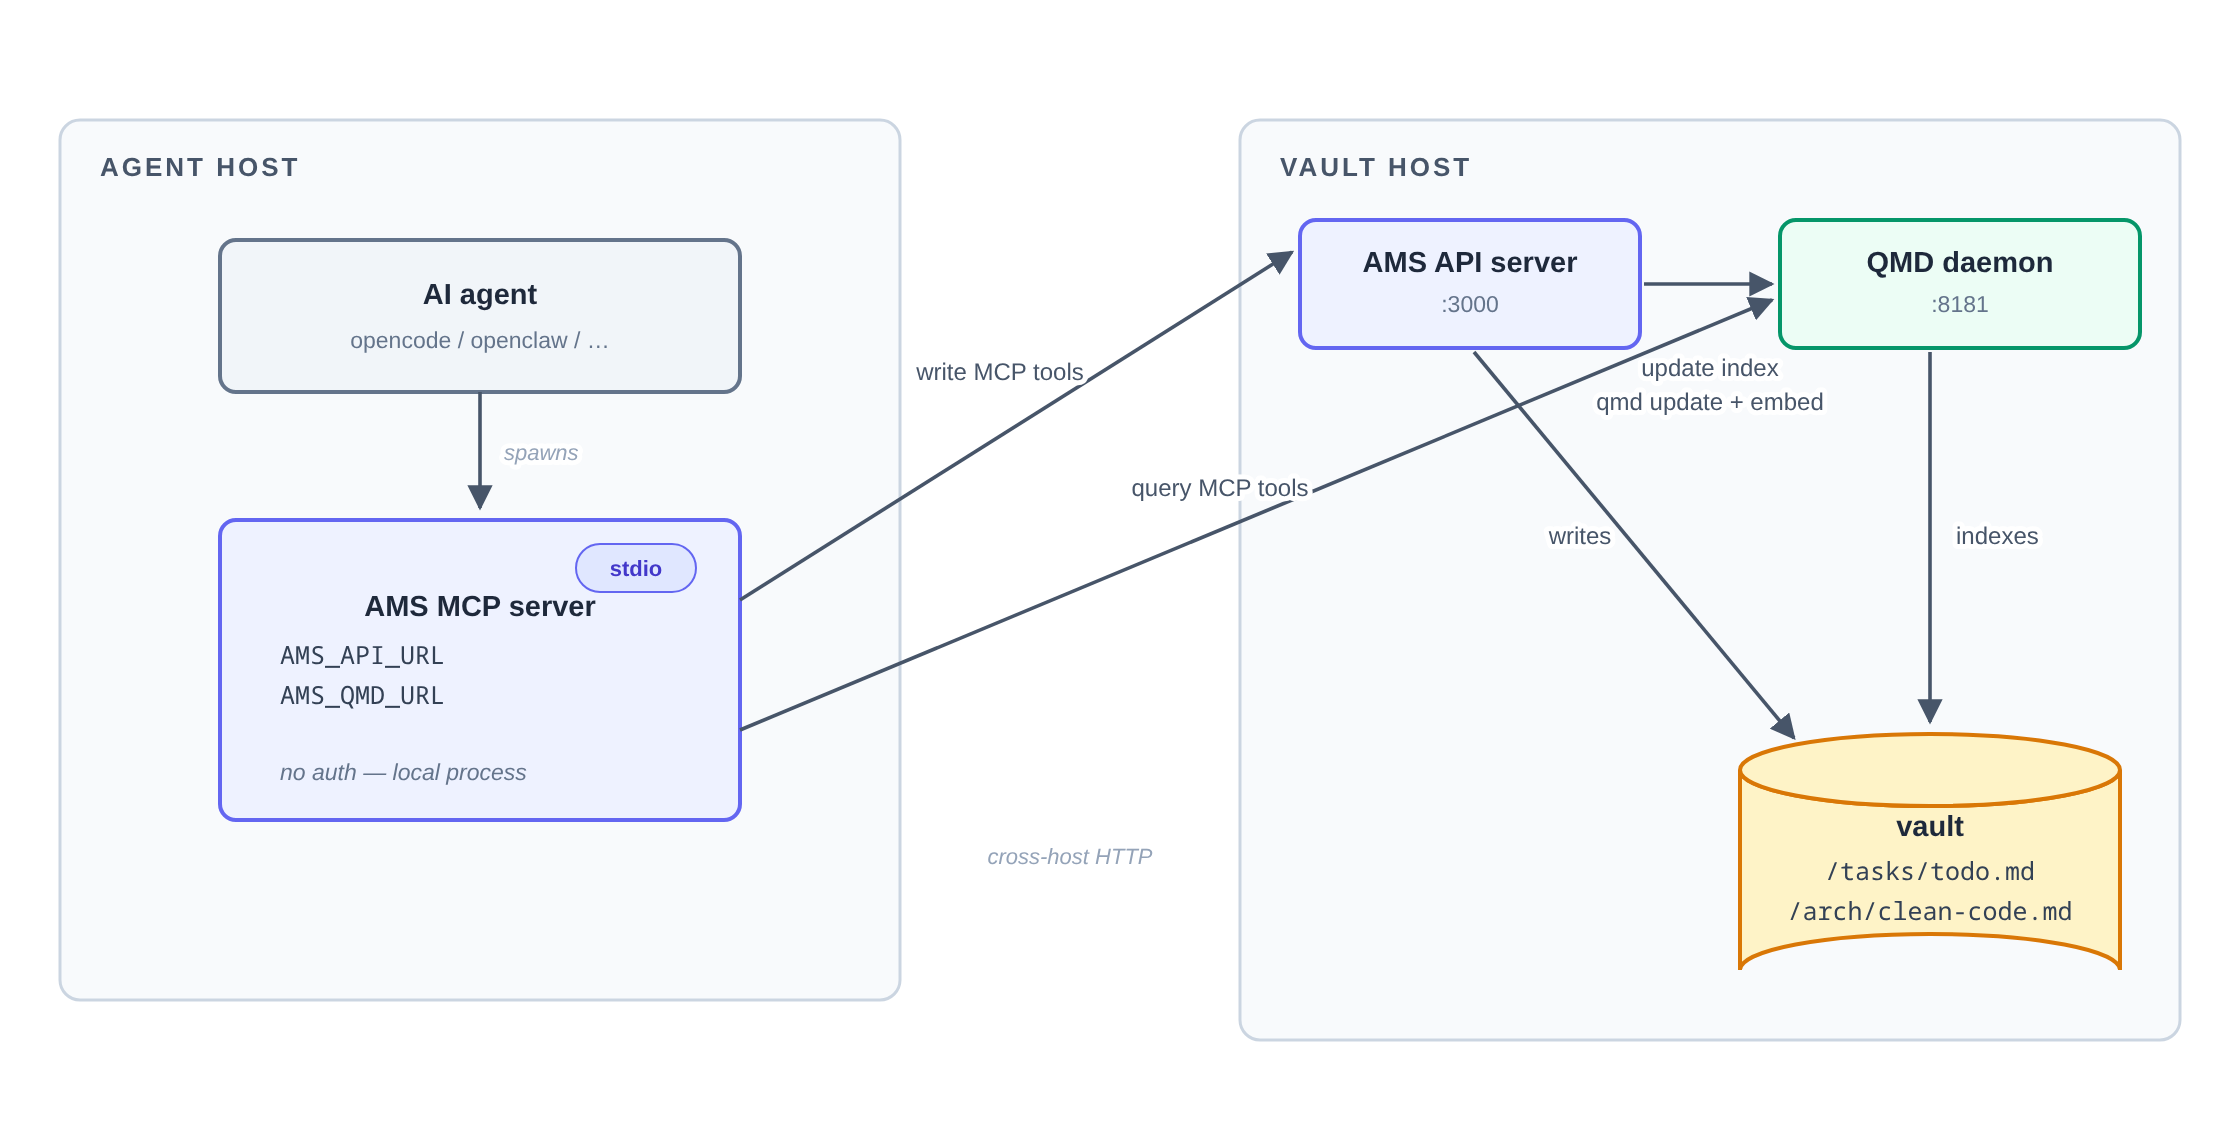
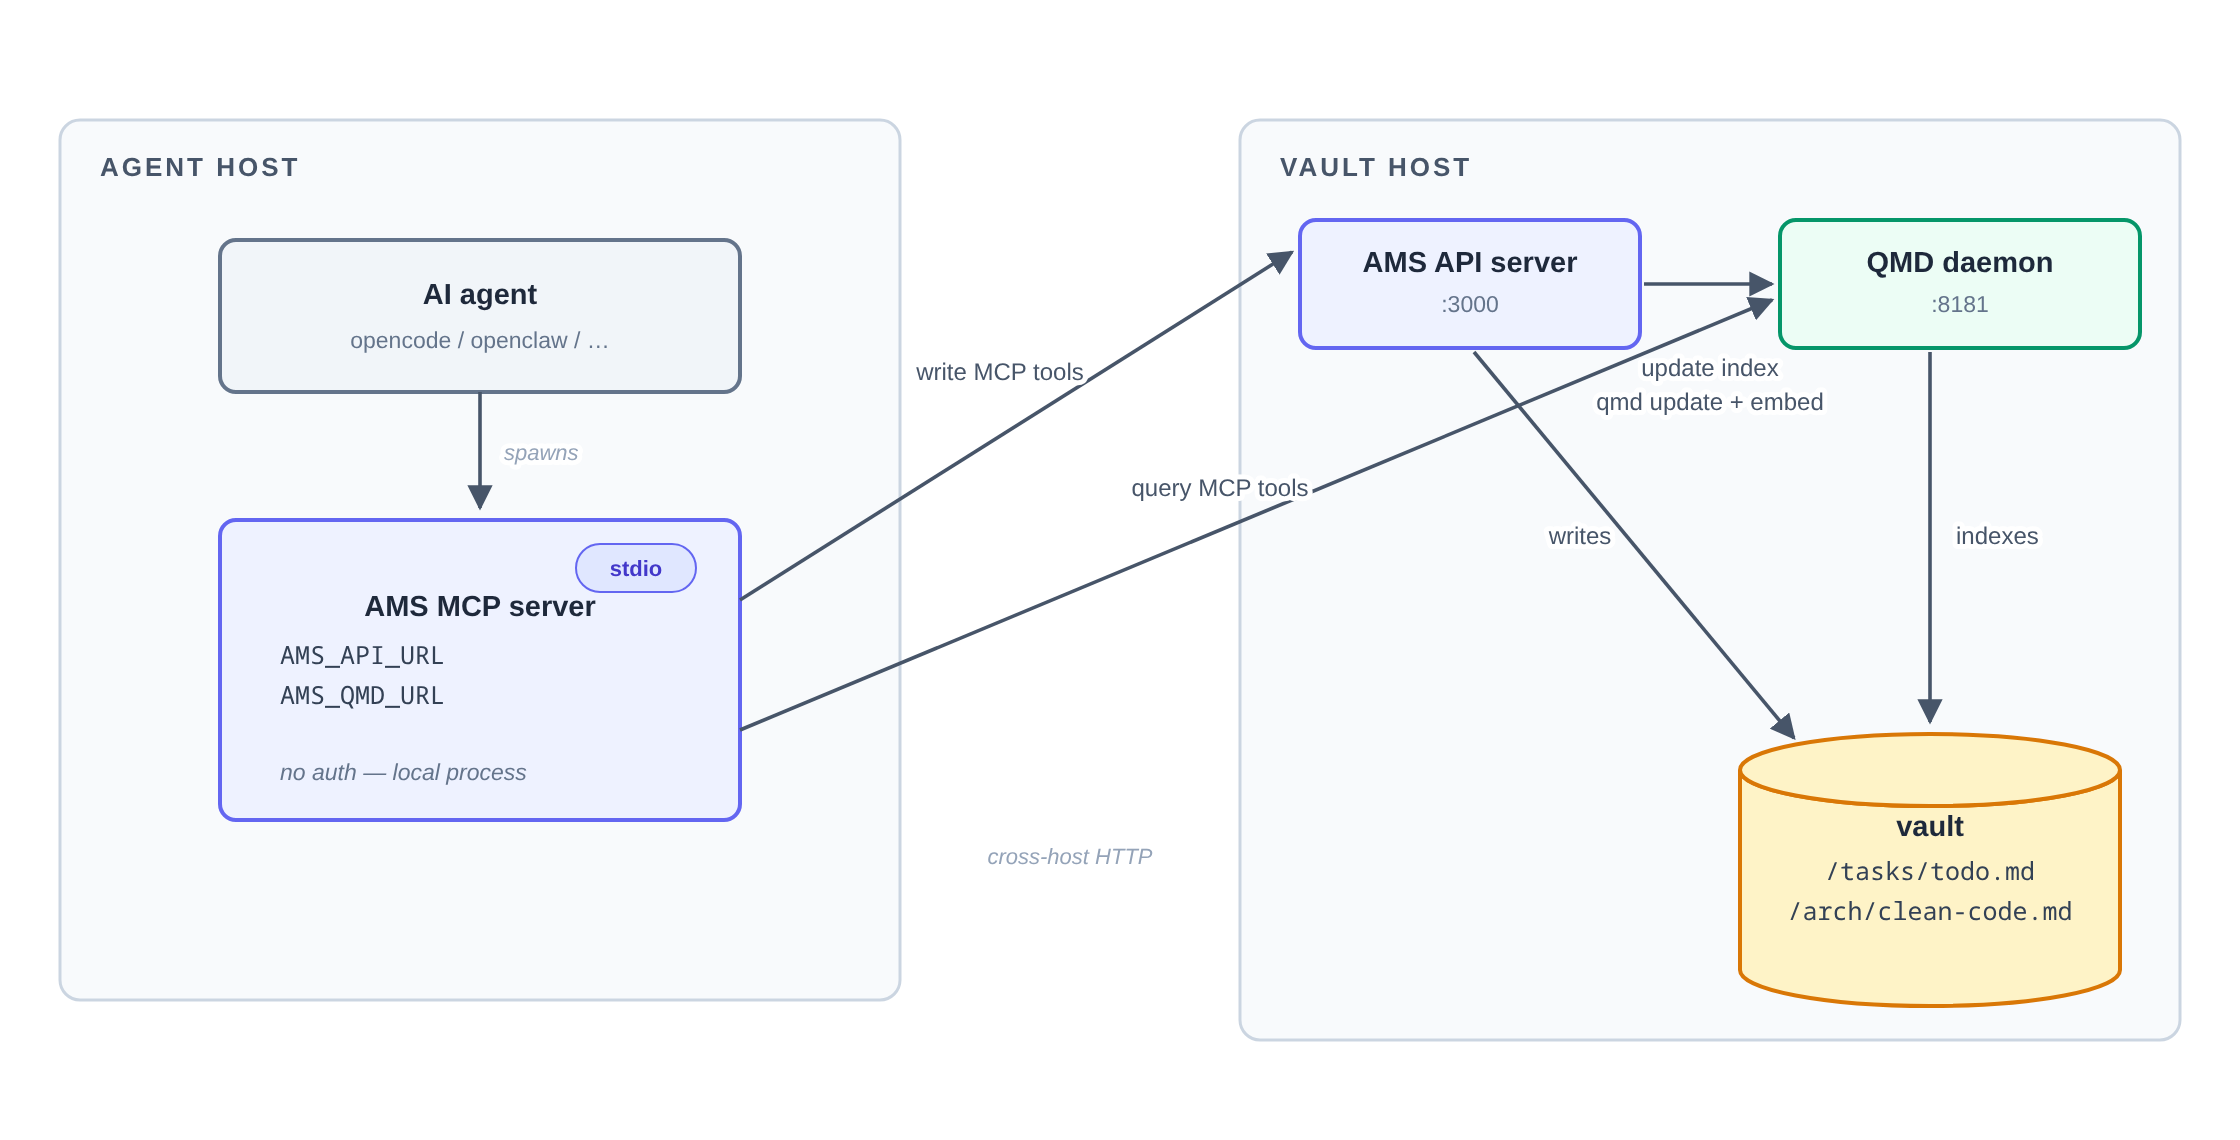
docs: fix cylinder base arcs bowing into the vault body
The storage cylinders' bottom arcs had the sweep flag inverted, so the
base curved upward through the file list text and the cylinder looked
truncated. All three diagrams now bow the base downward; the overview
vault->index dashed line starts below the corrected base. Text-vs-path
sampling added to the in-browser collision check (clean for all three);
PNGs re-rendered.

Refs #46

Changed region(s): [[0.7812, 0.7982, 0.9688, 0.8904]]

diff --git a/docs/assets/overview.html b/docs/assets/overview.html
@@ -68,13 +68,13 @@
     <text x="685" y="272" text-anchor="middle" class="sub">hybrid lexical + vector</text>
 
     <!-- Markdown vault cylinder -->
-    <path d="M 850 48 A 95 18 0 0 0 1040 48 L 1040 128 A 95 18 0 0 0 850 128 Z" class="store"/>
+    <path d="M 850 48 A 95 18 0 0 0 1040 48 L 1040 128 A 95 18 0 0 1 850 128 Z" class="store"/>
     <ellipse cx="945" cy="48" rx="95" ry="18" class="store" fill="#fde68a"/>
     <text x="945" y="88" text-anchor="middle" class="lbl">Markdown vault</text>
     <text x="945" y="108" text-anchor="middle" class="sub">plain .md files you own</text>
 
     <!-- QMD index cylinder -->
-    <path d="M 850 228 A 95 18 0 0 0 1040 228 L 1040 308 A 95 18 0 0 0 850 308 Z" class="store"/>
+    <path d="M 850 228 A 95 18 0 0 0 1040 228 L 1040 308 A 95 18 0 0 1 850 308 Z" class="store"/>
     <ellipse cx="945" cy="228" rx="95" ry="18" class="store" fill="#fde68a"/>
     <text x="945" y="268" text-anchor="middle" class="lbl">QMD index</text>
     <text x="945" y="288" text-anchor="middle" class="sub">local, rebuildable</text>
@@ -95,7 +95,7 @@
     <line x1="770" y1="257" x2="846" y2="245" class="edge" marker-end="url(#arr)"/>
     <text x="800" y="280" text-anchor="middle" class="ann">searches</text>
 
-    <line x1="945" y1="140" x2="945" y2="222" class="edge-dash" marker-end="url(#arr)"/>
+    <line x1="945" y1="152" x2="945" y2="222" class="edge-dash" marker-end="url(#arr)"/>
     <text x="958" y="184" text-anchor="start" class="ann">indexed from your files</text>
   </svg>
   <p class="caption">The agent reads its memories back in any future session.</p>

diff --git a/docs/assets/deployment-http.html b/docs/assets/deployment-http.html
@@ -106,7 +106,7 @@
     <text x="834" y="431" text-anchor="middle" class="flow" font-size="11px">qmd update + embed</text>
 
     <!-- vault cylinder -->
-    <path d="M 870 520 A 95 18 0 0 0 1060 520 L 1060 610 A 95 18 0 0 0 870 610 Z" class="store"/>
+    <path d="M 870 520 A 95 18 0 0 0 1060 520 L 1060 610 A 95 18 0 0 1 870 610 Z" class="store"/>
     <ellipse cx="965" cy="520" rx="95" ry="18" class="store" fill="#fde68a"/>
     <text x="965" y="555" text-anchor="middle" class="lbl">vault</text>
     <text x="965" y="578" text-anchor="middle" class="env" font-size="12px">/tasks/todo.md</text>

diff --git a/docs/assets/deployment-stdio.html b/docs/assets/deployment-stdio.html
@@ -81,7 +81,7 @@
     <text x="855" y="205" text-anchor="middle" class="flow" font-size="11px">qmd update + embed</text>
 
     <!-- vault cylinder -->
-    <path d="M 870 385 A 95 18 0 0 0 1060 385 L 1060 485 A 95 18 0 0 0 870 485 Z" class="store"/>
+    <path d="M 870 385 A 95 18 0 0 0 1060 385 L 1060 485 A 95 18 0 0 1 870 485 Z" class="store"/>
     <ellipse cx="965" cy="385" rx="95" ry="18" class="store" fill="#fde68a"/>
     <text x="965" y="418" text-anchor="middle" class="lbl">vault</text>
     <text x="965" y="440" text-anchor="middle" class="env" font-size="12px">/tasks/todo.md</text>
